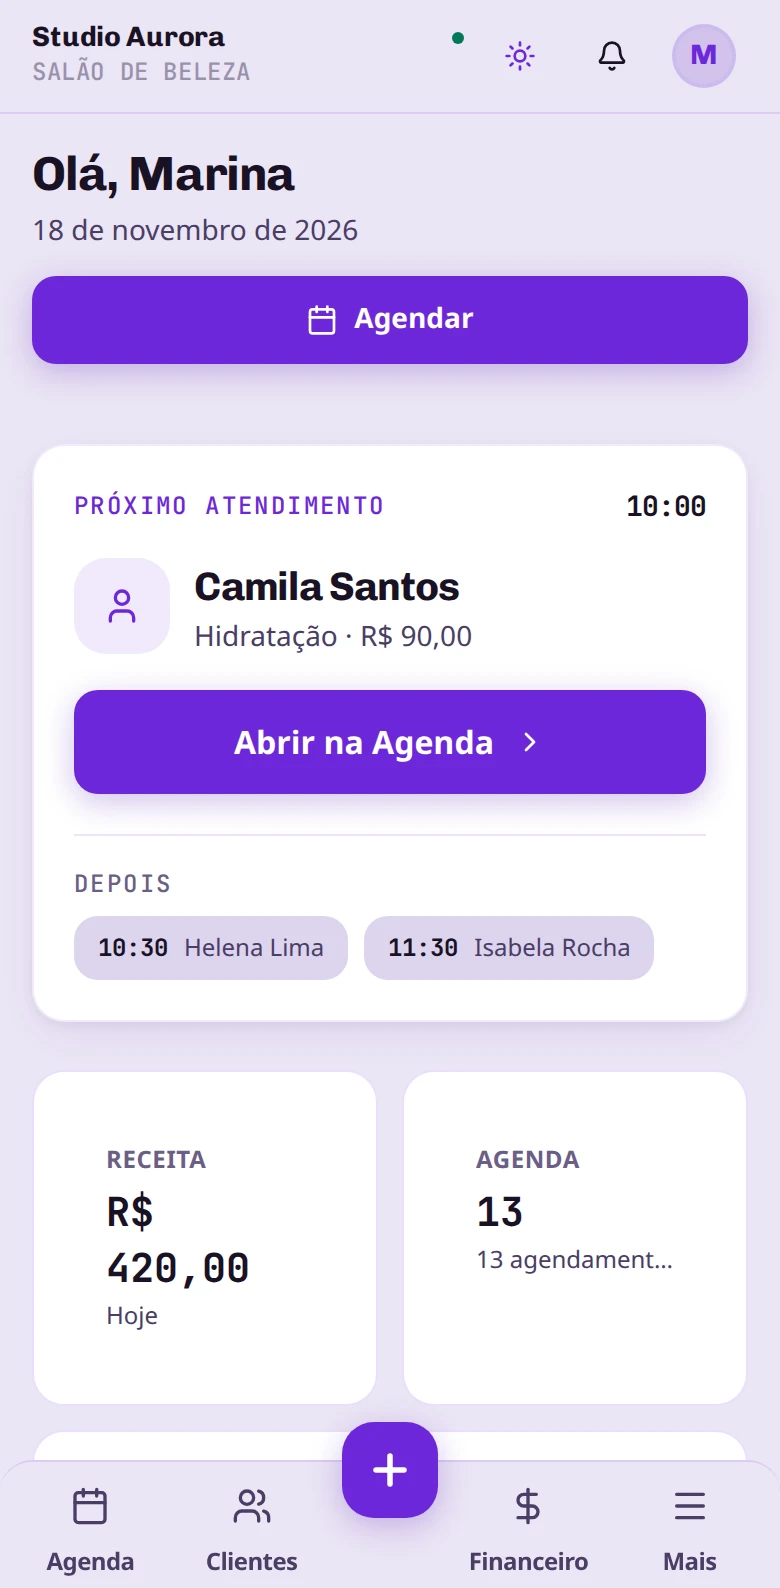
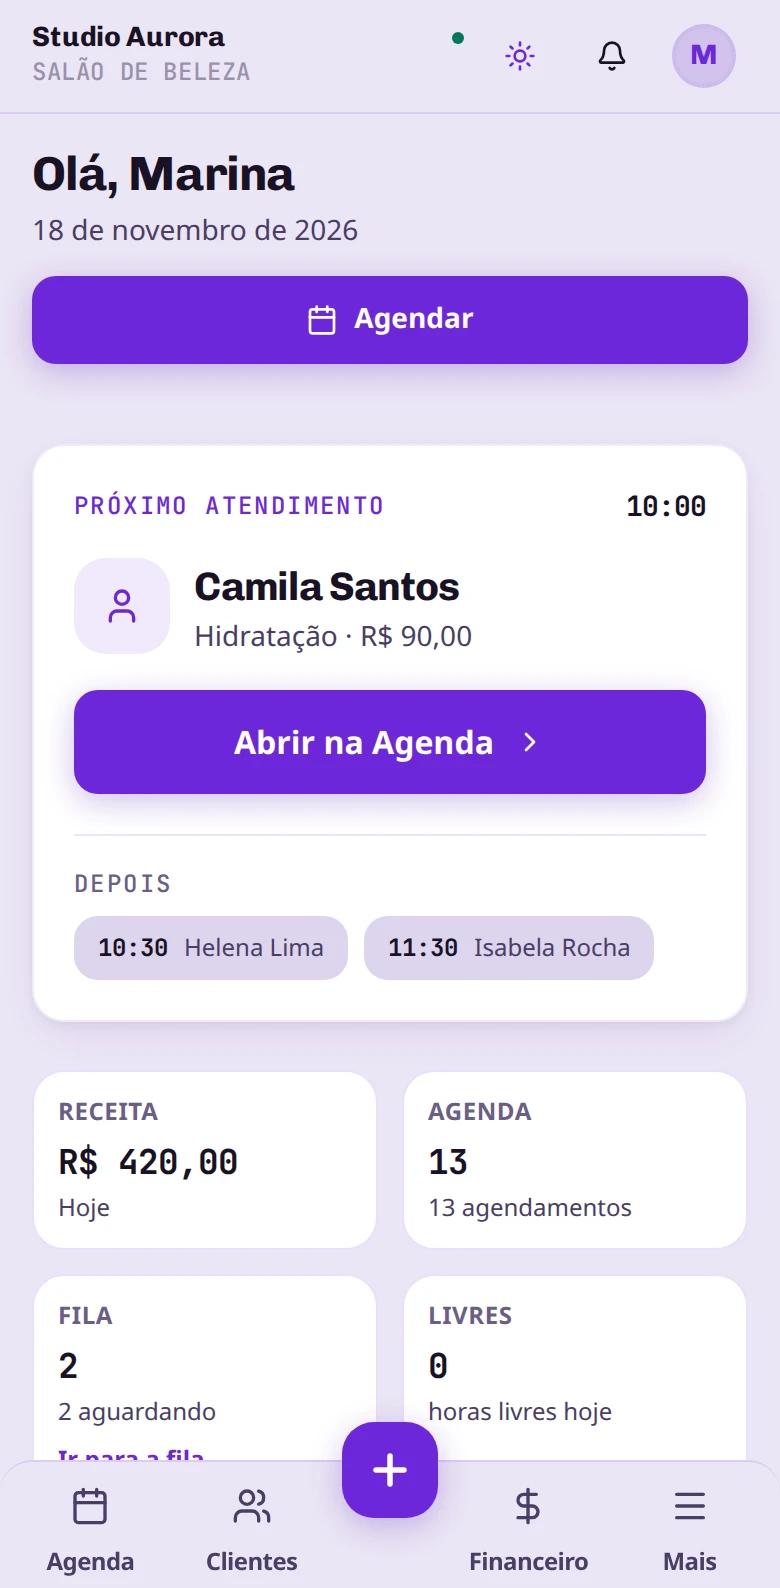
remove padding duplo nos kpis do inicio para caber valores e rotulos em 360px

Changed region(s): [[0.0308, 0.6788, 0.9538, 0.9257]]

diff --git a/components/dashboard/TodayKpiStrip.tsx b/components/dashboard/TodayKpiStrip.tsx
@@ -24,7 +24,7 @@ export const TodayKpiStrip: React.FC<TodayKpiStripProps> = ({ items, loading = f
     return (
       <section className="grid grid-cols-2 gap-3 xl:grid-cols-4" aria-busy="true">
         {[1, 2, 3, 4].map((i) => (
-          <Card key={i} variant="outlined" className="min-h-[96px] animate-pulse">
+          <Card key={i} variant="outlined" noPadding className="min-h-[96px] animate-pulse p-3 sm:p-4">
             <div className={`h-3 w-16 rounded ${colors.surface}`} />
             <div className={`mt-3 h-7 w-20 rounded ${colors.surface}`} />
           </Card>
@@ -39,17 +39,18 @@ export const TodayKpiStrip: React.FC<TodayKpiStripProps> = ({ items, loading = f
         <Card
           key={item.id}
           variant="outlined"
-          className="p-4"
+          noPadding
+          className="p-3 sm:p-4"
           onClick={item.onClick}
         >
           <p className={`text-xs font-semibold uppercase tracking-wide ${colors.textMuted}`}>
             {item.label}
           </p>
-          <p className={`mt-1 font-mono text-xl font-black tabular-nums md:text-2xl ${colors.text}`}>
+          <p className={`mt-1 whitespace-nowrap font-mono text-[clamp(1rem,4.4vw,1.25rem)] font-black tabular-nums sm:text-xl md:text-2xl ${colors.text}`}>
             {item.value}
           </p>
           {item.hint && (
-            <p className={`mt-0.5 text-xs ${colors.textSecondary} truncate`}>{item.hint}</p>
+            <p className={`mt-0.5 text-xs leading-snug ${colors.textSecondary}`}>{item.hint}</p>
           )}
           {item.progress != null && (
             <div

diff --git a/components/dashboard/TodayKpiStrip.test.tsx b/components/dashboard/TodayKpiStrip.test.tsx
@@ -1,0 +1,37 @@
+import React from 'react';
+import { describe, it, expect, vi } from 'vitest';
+import { render, screen } from '@testing-library/react';
+import { TodayKpiStrip } from './TodayKpiStrip';
+
+vi.mock('../../contexts/AuthContext', () => ({
+  useAuth: () => ({ userType: 'barber', role: 'owner', isAuthenticated: true }),
+}));
+
+describe('TodayKpiStrip', () => {
+  it('renderiza valores até R$ 99.999,99 sem quebra e rótulos sem truncamento ou padding duplo', () => {
+    const { container } = render(
+      <TodayKpiStrip
+        items={[
+          { id: 'revenue', label: 'Receita', value: 'R$ 99.999,99', hint: 'Hoje' },
+          { id: 'agenda', label: 'Agenda', value: '13', hint: '13 agendamentos' },
+          { id: 'queue', label: 'Fila', value: '2', hint: '2 aguardando' },
+          { id: 'free', label: 'Livres', value: '7', hint: 'horas livres hoje' },
+        ]}
+      />,
+    );
+
+    const valueEl = screen.getByText('R$ 99.999,99');
+    expect(valueEl.className).toContain('whitespace-nowrap');
+
+    const hintEl = screen.getByText('13 agendamentos');
+    expect(hintEl.className).not.toContain('truncate');
+
+    // Garante que cada card usa p-3 sm:p-4 direto (sem padding duplo interno do Card)
+    const cards = container.querySelectorAll('section > div');
+    expect(cards).toHaveLength(4);
+    for (const card of cards) {
+      expect(card.className).toContain('p-3');
+      expect(card.firstElementChild?.className ?? '').not.toMatch(/\bp-[345]\b/);
+    }
+  });
+});
